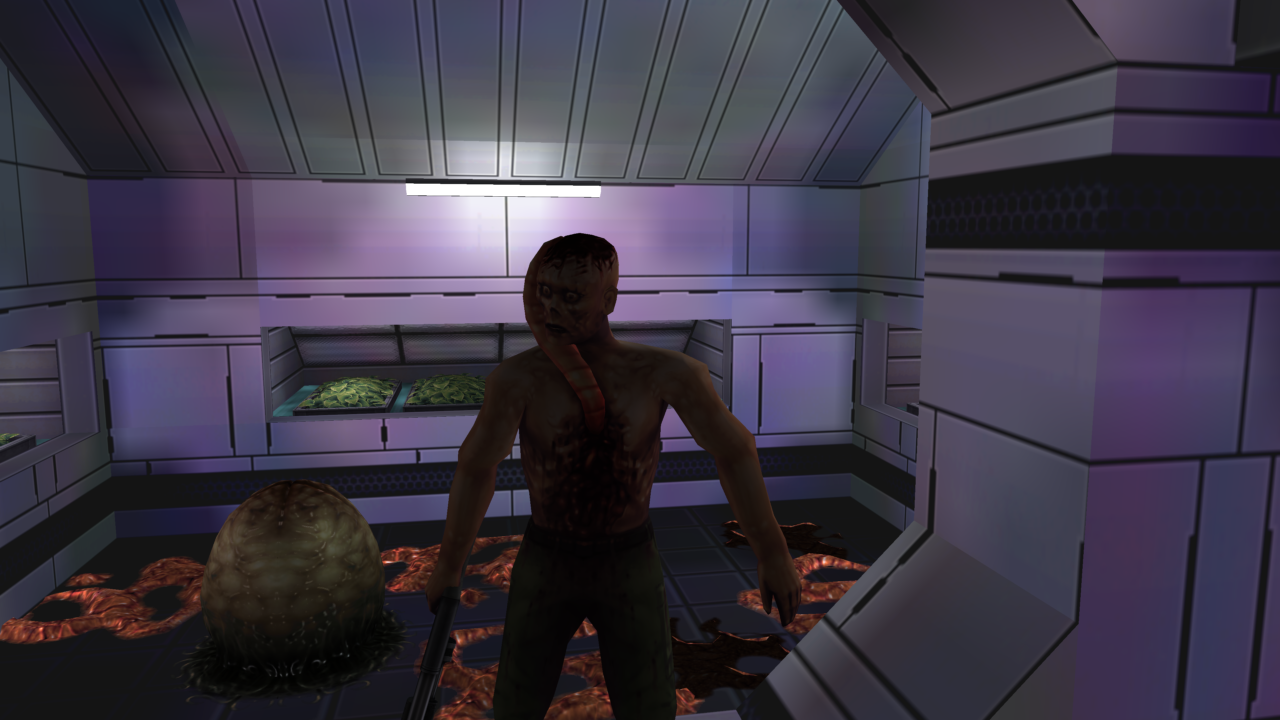
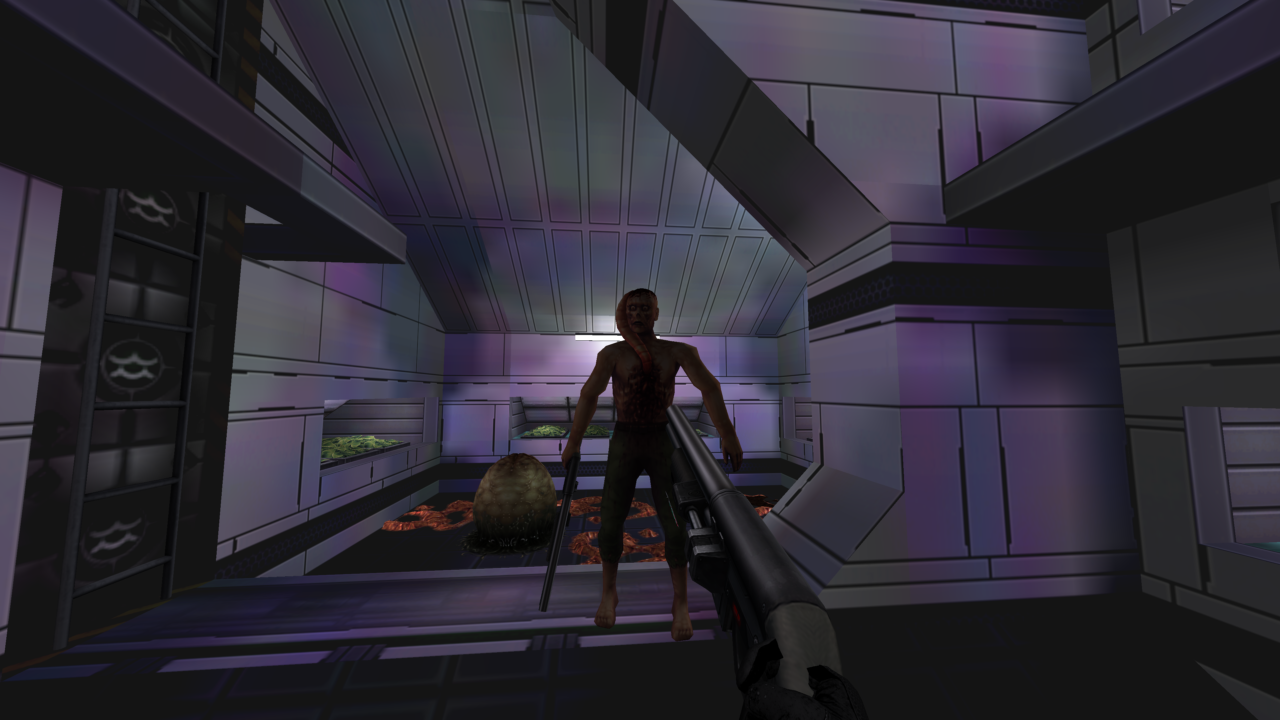
feat(hero-shots): first-person stills with VR hands and weapon loadouts

diff --git a/tools/shock2-sdk/src/vr-pose.ts b/tools/shock2-sdk/src/vr-pose.ts
@@ -1,0 +1,140 @@
+// Stage VR hands for captures: place each controller at an offset from the
+// eye (in the head's yaw frame) and aim it at a world point.
+import type { Game } from "./game.js";
+import type { Quat, Vec3 } from "./types.js";
+import {
+  add,
+  normalize,
+  quatConjugate,
+  quatFromTo,
+  quatMultiply,
+  quatNormalize,
+  quatRotate,
+  sub,
+} from "./vec.js";
+
+export type Hand = "left" | "right";
+
+/**
+ * Pawn-local controller pose (the space `<hand>_hand.position/rotation` take)
+ * for a hand at `offset` from the eye - x right, y up, -z toward `target`,
+ * horizontally - whose -Z ray points at `target`.
+ */
+export function handPoseAimedAt(
+  pawnPosition: Vec3,
+  pawnRotation: Quat,
+  eyeHeight: number,
+  target: Vec3,
+  offset: Vec3,
+): { position: Vec3; rotation: Quat } {
+  const eye = add(pawnPosition, [0, eyeHeight, 0]);
+  const toward = sub(target, eye);
+  const yaw = Math.atan2(-toward[0], -toward[2]);
+  const yawRotation: Quat = [0, Math.sin(yaw / 2), 0, Math.cos(yaw / 2)];
+  const world = add(eye, quatRotate(yawRotation, offset));
+  const worldRotation = quatFromTo([0, 0, -1], normalize(sub(target, world)));
+  const inversePawn = quatConjugate(pawnRotation);
+  return {
+    position: quatRotate(inversePawn, sub(world, pawnPosition)),
+    rotation: quatNormalize(quatMultiply(inversePawn, worldRotation)),
+  };
+}
+
+/** Signed yaw (radians) from the pawn's facing to `target`, positive = left. */
+export function pawnYawError(pawnPosition: Vec3, pawnRotation: Quat, target: Vec3): number {
+  const facing = quatRotate(pawnRotation, [0, 0, -1]);
+  const toward = sub(target, pawnPosition);
+  const error = Math.atan2(-toward[0], -toward[2]) - Math.atan2(-facing[0], -facing[2]);
+  return Math.atan2(Math.sin(error), Math.cos(error));
+}
+
+/**
+ * Turn the pawn to face `target` with the turn stick, the way a player does,
+ * so the body (and its shoulder/holster zones) faces it rather than only the
+ * head. Steps frames until within `toleranceDeg`.
+ */
+export async function turnPawnToward(game: Game, target: Vec3, toleranceDeg = 5): Promise<void> {
+  for (let frame = 0; frame < 600; frame++) {
+    const { player } = await game.info();
+    const error = pawnYawError(player.position, player.rotation, target);
+    if (Math.abs(error) <= (toleranceDeg * Math.PI) / 180) {
+      await game.input.set("left_hand.thumbstick", [0, 0]);
+      return;
+    }
+    // Stick x > 0 turns left (positive yaw); ease off near the target.
+    const push = Math.min(1, Math.max(0.2, Math.abs(error)));
+    await game.input.set("left_hand.thumbstick", [error > 0 ? push : -push, 0]);
+    await game.step({ frames: 1 });
+  }
+  await game.input.set("left_hand.thumbstick", [0, 0]);
+  throw new Error("pawn did not turn toward the target within 600 frames");
+}
+
+/**
+ * Square the player up to `target`: park both hands low in front, turn the
+ * pawn toward it, look at it, and let the tracked body yaw settle. Body zones
+ * (shoulder backpack, holsters) freeze their yaw while a hand is inside one,
+ * and the default hand pose starts inside, so posing without this leaves the
+ * zones facing the old direction - a later squeeze then "draws" from a
+ * shoulder instead of holding.
+ */
+export async function faceTarget(game: Game, target: Vec3): Promise<void> {
+  for (const hand of ["left", "right"] as const) {
+    await game.input.set(`${hand}_hand.position`, [hand === "left" ? -0.2 : 0.2, 0.3, -0.6]);
+    await game.input.set(`${hand}_hand.rotation`, [0, 0, 0, 1]);
+  }
+  await turnPawnToward(game, target);
+  await game.input.lookAtWorldPoint(target);
+  // The body yaw eases toward the head with a 0.5 s time constant; 1 s
+  // closes ~86% of the turn, well inside the zones' tolerance.
+  await game.step({ frames: 60 });
+}
+
+/** Turn the head to `target`, then aim each given hand at it from its offset. */
+export async function aimHandsAt(
+  game: Game,
+  target: Vec3,
+  hands: Partial<Record<Hand, Vec3>>,
+): Promise<void> {
+  await game.input.lookAtWorldPoint(target);
+  const { player } = await game.info();
+  for (const [hand, offset] of Object.entries(hands) as [Hand, Vec3][]) {
+    const pose = handPoseAimedAt(
+      player.position,
+      player.rotation,
+      player.camera_offset[1],
+      target,
+      offset,
+    );
+    await game.input.set(`${hand}_hand.position`, pose.position);
+    await game.input.set(`${hand}_hand.rotation`, pose.rotation);
+  }
+}
+
+/**
+ * Put the `support` hand on the two-handed grip of the gun `primary` holds,
+ * and squeeze to attach it. Steps a few frames.
+ */
+export async function attachSupportHand(game: Game, primary: Hand): Promise<void> {
+  const support: Hand = primary === "left" ? "right" : "left";
+  await game.step({ frames: 2 });
+  const { player } = await game.info();
+  const socket = player.hand_grips.find((g) => g.hand === primary)?.support;
+  if (!socket) throw new Error(`the ${primary} hand holds nothing with a support grip`);
+  const p = socket.controller_position;
+  const q = socket.controller_rotation;
+  const inversePawn = quatConjugate(player.rotation);
+  await game.input.set(
+    `${support}_hand.position`,
+    quatRotate(inversePawn, sub([p.x, p.y, p.z], player.position)),
+  );
+  await game.input.set(
+    `${support}_hand.rotation`,
+    quatMultiply(inversePawn, [q.v.x, q.v.y, q.v.z, q.s]),
+  );
+  await game.input.set(`${support}_hand.squeeze`, 1);
+  await game.step({ frames: 10 });
+  const attached = (await game.info()).player.hand_grips.find((g) => g.hand === primary)
+    ?.support?.attached;
+  if (!attached) throw new Error(`the ${support} hand did not attach to the support grip`);
+}

diff --git a/tools/shock2-sdk/test/helpers/vr-hand.ts b/tools/shock2-sdk/test/helpers/vr-hand.ts
@@ -1,68 +1,10 @@
 import assert from "node:assert/strict";
 import type { GameServer } from "../../src/index.js";
 import type { UiPanelPose, Vec3 } from "../../src/types.js";
+import { add, dot, normalize, quatConjugate, quatFromTo, quatMultiply, quatNormalize, quatRotate, scale, sub } from "../../src/vec.js";
 
-export type Quat = [number, number, number, number];
+export * from "../../src/vec.js";
 export type Hand = "left" | "right";
-
-export const add = (a: Vec3, b: Vec3): Vec3 => [
-  a[0] + b[0],
-  a[1] + b[1],
-  a[2] + b[2],
-];
-export const sub = (a: Vec3, b: Vec3): Vec3 => [
-  a[0] - b[0],
-  a[1] - b[1],
-  a[2] - b[2],
-];
-export const scale = (v: Vec3, amount: number): Vec3 => [
-  v[0] * amount,
-  v[1] * amount,
-  v[2] * amount,
-];
-export const dot = (a: Vec3, b: Vec3): number =>
-  a[0] * b[0] + a[1] * b[1] + a[2] * b[2];
-export const cross = (a: Vec3, b: Vec3): Vec3 => [
-  a[1] * b[2] - a[2] * b[1],
-  a[2] * b[0] - a[0] * b[2],
-  a[0] * b[1] - a[1] * b[0],
-];
-export const normalize = (v: Vec3): Vec3 => scale(v, 1 / Math.sqrt(dot(v, v)));
-
-export const quatConjugate = ([x, y, z, w]: Quat): Quat => [-x, -y, -z, w];
-export const quatMultiply = (
-  [ax, ay, az, aw]: Quat,
-  [bx, by, bz, bw]: Quat,
-): Quat => [
-  aw * bx + ax * bw + ay * bz - az * by,
-  aw * by - ax * bz + ay * bw + az * bx,
-  aw * bz + ax * by - ay * bx + az * bw,
-  aw * bw - ax * bx - ay * by - az * bz,
-];
-export const quatNormalize = (q: Quat): Quat => {
-  const length = Math.sqrt(q.reduce((sum, value) => sum + value * value, 0));
-  return q.map((value) => value / length) as Quat;
-};
-
-export const quatRotate = (q: Quat, v: Vec3): Vec3 =>
-  quatMultiply(quatMultiply(q, [...v, 0]), quatConjugate(q)).slice(
-    0,
-    3,
-  ) as Vec3;
-
-export function quatFromTo(from: Vec3, to: Vec3): Quat {
-  const a = normalize(from);
-  const b = normalize(to);
-  const d = dot(a, b);
-  if (d < -0.999999) {
-    const axis =
-      Math.abs(a[0]) < 0.9
-        ? normalize(cross(a, [1, 0, 0]))
-        : normalize(cross(a, [0, 1, 0]));
-    return [axis[0], axis[1], axis[2], 0];
-  }
-  return quatNormalize([...cross(a, b), 1 + d]);
-}
 
 /**
  * Aim a controller at a point on the VR cyber-interface panel's canvas.

diff --git a/tools/shock2-sdk/src/vec.ts b/tools/shock2-sdk/src/vec.ts
@@ -1,0 +1,63 @@
+// Vector/quaternion math shared by VR posing (quaternions are [x, y, z, w]).
+import type { Quat, Vec3 } from "./types.js";
+
+export type { Quat };
+
+export const add = (a: Vec3, b: Vec3): Vec3 => [
+  a[0] + b[0],
+  a[1] + b[1],
+  a[2] + b[2],
+];
+export const sub = (a: Vec3, b: Vec3): Vec3 => [
+  a[0] - b[0],
+  a[1] - b[1],
+  a[2] - b[2],
+];
+export const scale = (v: Vec3, amount: number): Vec3 => [
+  v[0] * amount,
+  v[1] * amount,
+  v[2] * amount,
+];
+export const dot = (a: Vec3, b: Vec3): number =>
+  a[0] * b[0] + a[1] * b[1] + a[2] * b[2];
+export const cross = (a: Vec3, b: Vec3): Vec3 => [
+  a[1] * b[2] - a[2] * b[1],
+  a[2] * b[0] - a[0] * b[2],
+  a[0] * b[1] - a[1] * b[0],
+];
+export const normalize = (v: Vec3): Vec3 => scale(v, 1 / Math.sqrt(dot(v, v)));
+
+export const quatConjugate = ([x, y, z, w]: Quat): Quat => [-x, -y, -z, w];
+export const quatMultiply = (
+  [ax, ay, az, aw]: Quat,
+  [bx, by, bz, bw]: Quat,
+): Quat => [
+  aw * bx + ax * bw + ay * bz - az * by,
+  aw * by - ax * bz + ay * bw + az * bx,
+  aw * bz + ax * by - ay * bx + az * bw,
+  aw * bw - ax * bx - ay * by - az * bz,
+];
+export const quatNormalize = (q: Quat): Quat => {
+  const length = Math.sqrt(q.reduce((sum, value) => sum + value * value, 0));
+  return q.map((value) => value / length) as Quat;
+};
+
+export const quatRotate = (q: Quat, v: Vec3): Vec3 =>
+  quatMultiply(quatMultiply(q, [...v, 0]), quatConjugate(q)).slice(
+    0,
+    3,
+  ) as Vec3;
+
+export function quatFromTo(from: Vec3, to: Vec3): Quat {
+  const a = normalize(from);
+  const b = normalize(to);
+  const d = dot(a, b);
+  if (d < -0.999999) {
+    const axis =
+      Math.abs(a[0]) < 0.9
+        ? normalize(cross(a, [1, 0, 0]))
+        : normalize(cross(a, [0, 1, 0]));
+    return [axis[0], axis[1], axis[2], 0];
+  }
+  return quatNormalize([...cross(a, b), 1 + d]);
+}

diff --git a/tools/shock2-sdk/test/vr-pose.test.ts b/tools/shock2-sdk/test/vr-pose.test.ts
@@ -1,0 +1,28 @@
+import assert from "node:assert/strict";
+import { test } from "node:test";
+import { handPoseAimedAt } from "../src/vr-pose.js";
+import type { Quat, Vec3 } from "../src/types.js";
+import { add, dot, normalize, quatRotate, sub } from "../src/vec.js";
+
+// A pawn yawed 90 degrees, so pawn-local and world differ.
+const pawn: Vec3 = [10, 0, 5];
+const pawnRotation: Quat = [0, Math.SQRT1_2, 0, Math.SQRT1_2];
+const eyeHeight = 1.5;
+
+test("the posed hand's -Z ray hits the target from its offset", () => {
+  const target: Vec3 = [4, 1, 5];
+  const pose = handPoseAimedAt(pawn, pawnRotation, eyeHeight, target, [0.15, -0.2, -0.4]);
+  const world = add(pawn, quatRotate(pawnRotation, pose.position));
+  const ray = quatRotate(pawnRotation, quatRotate(pose.rotation, [0, 0, -1]));
+  assert.ok(dot(ray, normalize(sub(target, world))) > 0.9999);
+});
+
+test("offsets are in the head's yaw frame toward the target", () => {
+  // Target straight down -X from the eye: "forward" is -X, "right" is -Z.
+  const target: Vec3 = [0, eyeHeight, 5];
+  const pose = handPoseAimedAt(pawn, pawnRotation, eyeHeight, target, [0.2, 0, -0.5]);
+  const world = add(pawn, quatRotate(pawnRotation, pose.position));
+  const fromEye = sub(world, add(pawn, [0, eyeHeight, 0]));
+  assert.ok(Math.abs(fromEye[0] + 0.5) < 1e-6, `forward ${fromEye}`);
+  assert.ok(Math.abs(fromEye[2] + 0.2) < 1e-6, `right ${fromEye}`);
+});

diff --git a/tools/shock2-sdk/src/index.ts b/tools/shock2-sdk/src/index.ts
@@ -19,3 +19,4 @@ export { findRepoRoot, GameServer, type LaunchOptions } from "./server.js";
 export * from "./anim-metrics.js";
 export * from "./ai-reachability.js";
 export type * from "./types.js";
+export * from "./vr-pose.js";

diff --git a/README.md b/README.md
@@ -16,8 +16,8 @@ Once installed, copy `sshock2.kpf` and the `mods/` folder from it - see [DEVELOP
 
 ## Screenshots
 
-<img src="screenshots/hero/hydro1.png" alt="Hydroponics: a hybrid beside an annelid egg" width="400"/> <img src="screenshots/hero/medsci1.png" alt="Med/Sci: a hybrid before a XERXES terminal" width="400"/>
-<img src="screenshots/hero/ops2.png" alt="Operations: a protocol droid" width="400"/> <img src="screenshots/hero/rec1.png" alt="Recreation: a monkey in medical analysis" width="400"/>
+<img src="screenshots/hero/hydro1.png" alt="Hydroponics: shotgun, two-handed, on a hybrid" width="400"/> <img src="screenshots/hero/medsci1.png" alt="Med/Sci: wrench and pistol against a hybrid" width="400"/>
+<img src="screenshots/hero/ops2.png" alt="Operations: psi amp and laser pistol against a protocol droid" width="400"/> <img src="screenshots/hero/rec1.png" alt="Recreation: pistol on a monkey" width="400"/>
 
 Regenerate with `node scripts/hero-shots.mjs` from `tools/shock2-sdk` (after `npm run build`).
 
